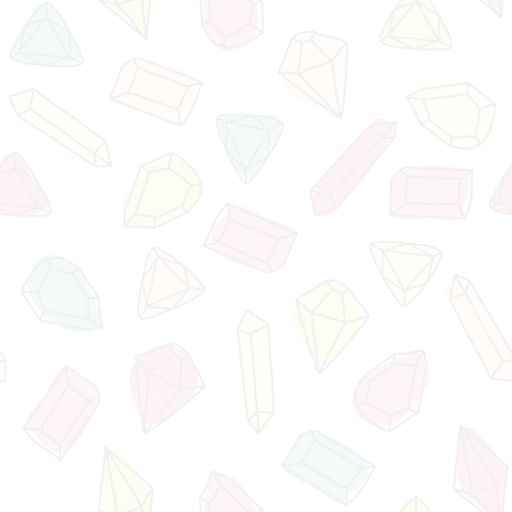
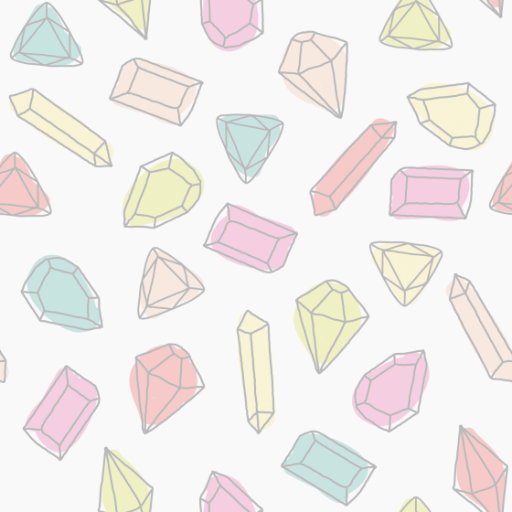
footer is beautifull

diff --git a/index.html b/index.html
@@ -110,9 +110,10 @@
         </div>
         
       </div>
-    </section>    
-    <div class="arrow goto" data-to="#participar"><img src="img/arrow.svg" class="social" width="50" /></div>
-    <section id="participar">
+    </section> 
+    
+    <div class="arrow goto" data-to="#sala"><img src="img/arrow.svg" class="social" width="50" /></div>
+    <section id="sala">
       <div class="container text-center">
         <h2 class="display-4">Scratch na Sala de Aula</h2>
         <hr>
@@ -149,59 +150,66 @@
         
       </div>
     </section>
-    
+    <div class="arrow goto" data-to="#comunidade"><img src="img/arrow.svg" class="social" width="50" /></div>
+
+    <section id="comunidade">
+      <div class="container text-center">
+        <h2 class="display-4">A comunidade</h2>
+        <hr>
+        <h4 class="my-5">Relatos de experiência sobre o Pensamento Computacional e ensino de Computação na Educação Básica</h4>
+        <div class="row">
+          <div class="col-md-6">
+            <p class=" lead text-justify"><span class="initial-letter"><strong>S</strong></span>omos uma rede de educadores, artistas, pais, pesquisadores, empreendedores, alunos e organizações voltada para a implantação de abordagens educacionais mais mão na massa, criativas e interessantes em escolas, universidades, espaços não-formais de aprendizagem e residências de todo o Brasil. </p>
+            <p class=" lead text-justify">Ajude-nos a reimaginar e reinventar a educação do país!</p>
+          </div>
+          <div class="col-md-6">
+            <img src="img/com.png" class="img-fluid frame">
+            
+          </div>
+            
+        </div>
+      </div>
+    </section>
     <footer class="footer bg-inverse">
       <div class="container py-5">
         <div class="row">
           
           <div class="col-md-12">
             <div class="row">
-              <div class="col-md-4 text-center">
+              <div class="col-md-2 text-center">
                 <div class="row">
                   <div class="col-md-12 text-center">
                     <h4 class="mt-5">Organização</h4>
                   </div>
                   <div class="col-md-12 text-center border-left left-first">
                     <div class="row">
-                      <div class="col-md-6">
+                      <div class="col-md-12">
                         <a href="http://lite.acad.univali.br" target="_blank"><img src="img/lite.svg" class="img-fluid apoio-logo" width="150px"></a>
                       </div>
-                      <div class="col-md-6">
-                      <a href="http://www.univali.br" target="_blank"><img src="img/univali.svg" class="img-fluid apoio-logo" width="150px"></a>
-                      </div>
+                      
                     </div>
                   </div>
                 </div>
               </div>
-              <div class="col-md-6 text-center">
-                <div class="row">
-                  <div class="col-md-12 text-center">
-                    <h4 class="mt-5">Realização</h4>
-                  </div>
-                  <div class="col-md-12 text-center  border-left">
-                    <div class="row">
-                      <div class="col-md-4">
-                        <img src="img/mca.svg" class="img-fluid apoio-logo" width="150px">
-                      </div>
-                      <div class="col-md-4">
-                        <img src="img/cau.svg" class="img-fluid apoio-logo" width="150px">
-                      </div>
-                      <div class="col-md-4">
-                        <img src="img/pos.svg" class="img-fluid apoio-logo" width="150px">
-                      </div>
-                    </div>
-                  </div>
-                </div>
-              </div>
-              <div class="col-md-2 text-center">
+              
+              <div class="col-md-10 text-center">
                 <div class="row">
                   <div class="col-md-12 text-center">
                     <h4 class="mt-5">Apoio</h4>
                   </div>
                   <div class="col-md-12 text-center  border-left">
                     <div class="row">
-                        <div class="col-md-12">
-                          <a href="http://www.sbc.org.br/" target="_blank"><img src="img/sbc.svg" class="img-fluid apoio-logo" width="150px"></a>
+                        <div class="col-md-3">
+                          <a href="http://www.sbc.org.br/" target="_blank"><img src="img/duno.svg" class="img-fluid apoio-logo" width="150px"></a>
+                        </div>
+                        <div class="col-md-3">
+                          <a href="http://www.sbc.org.br/" target="_blank"><img src="img/univali.svg" class="img-fluid apoio-logo" width="150px"></a>
+                        </div>
+                        <div class="col-md-3">
+                          <a href="http://www.sbc.org.br/" target="_blank"><img src="img/medialab.svg" class="img-fluid apoio-logo" width="150px"></a>
+                        </div>
+                        <div class="col-md-3">
+                          <a href="http://www.sbc.org.br/" target="_blank"><img src="img/duno.svg" class="img-fluid apoio-logo" width="150px"></a>
                         </div>
                     </div>
                   </div>

diff --git a/styles.css b/styles.css
@@ -24,10 +24,16 @@ body{
     font-family: 'StratumNo1 Light' ;
     background-color: var(--dark);
     color: var(--letter);
+    background-attachment: fixed;
 }
 
 h4{
     color: var(--dark);
+}
+.footer{
+    background: url('img/backto.png');
+    background-attachment: fixed;
+
 }
 section{
   padding: 5% 0;
@@ -94,8 +100,12 @@ hr{
     background-size: cover;
     background-attachment: fixed;
 }
-#participar{
-    background: url('img/gems.png')
+#sala{
+    background: url('img/gems.png');
+    background-attachment: fixed;
+}
+#comunidade h4{
+    color: var(--letter);
 }
 .arrow img{
   margin-left: auto;
@@ -134,7 +144,7 @@ p{
     margin: 0;
 }
 .frame{
-    border: 10px solid var(--letter);
+    padding-top: 10%;
 }
 .sub-title{
     text-align: left;
